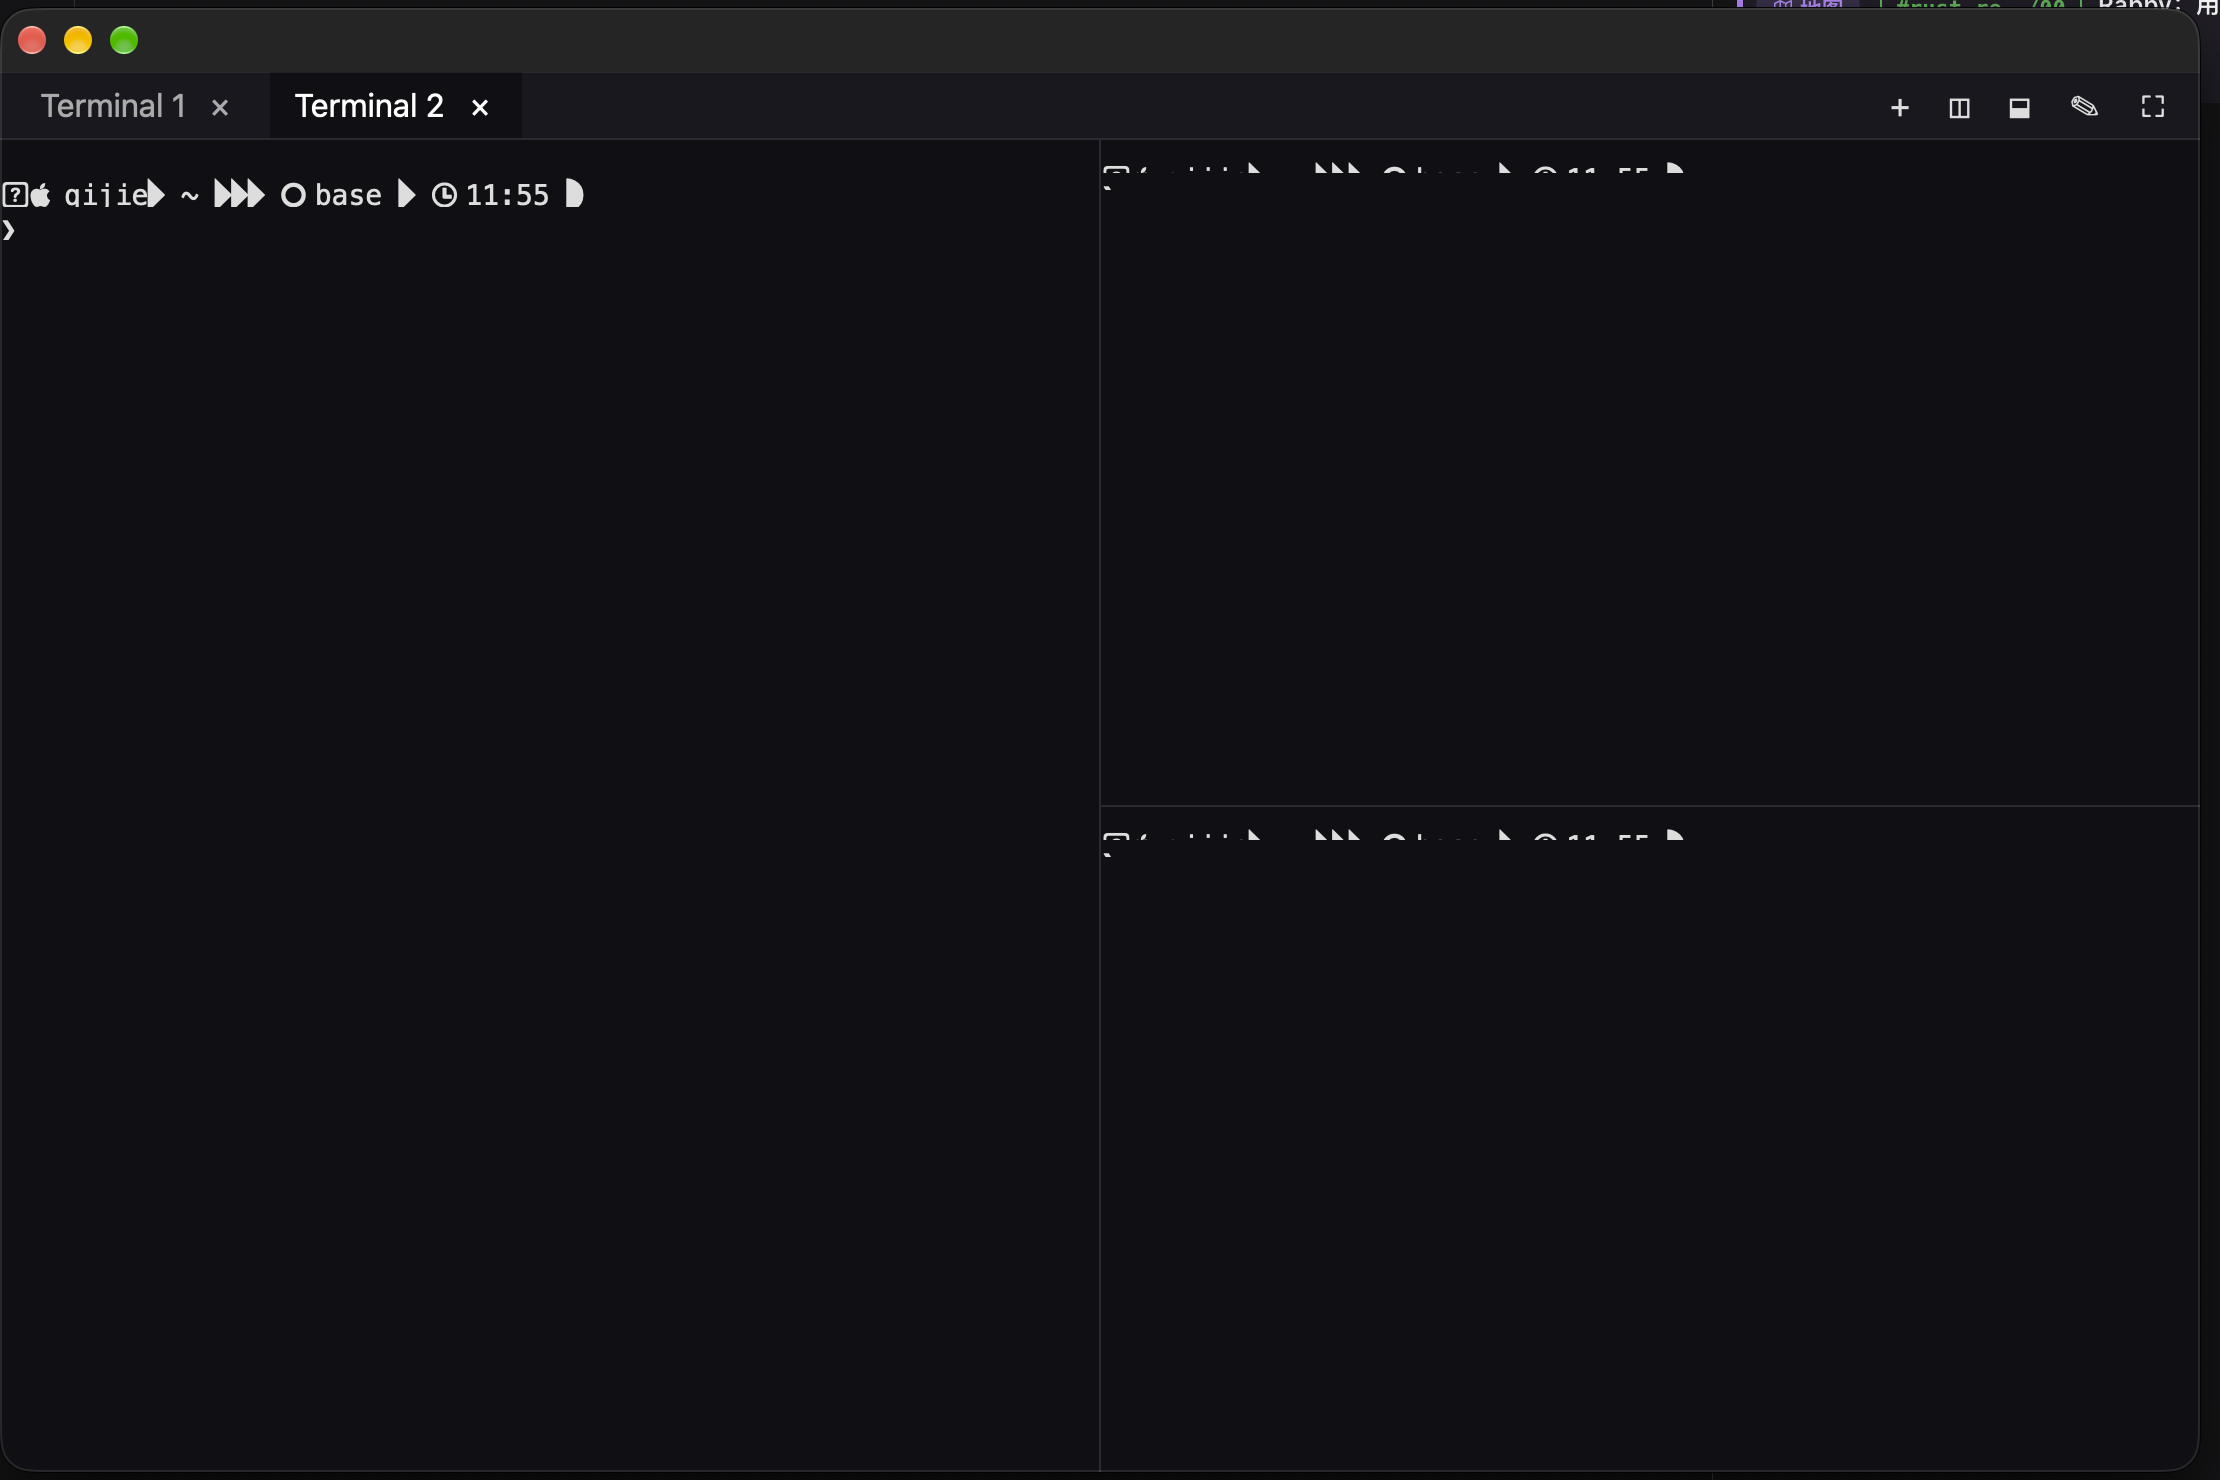
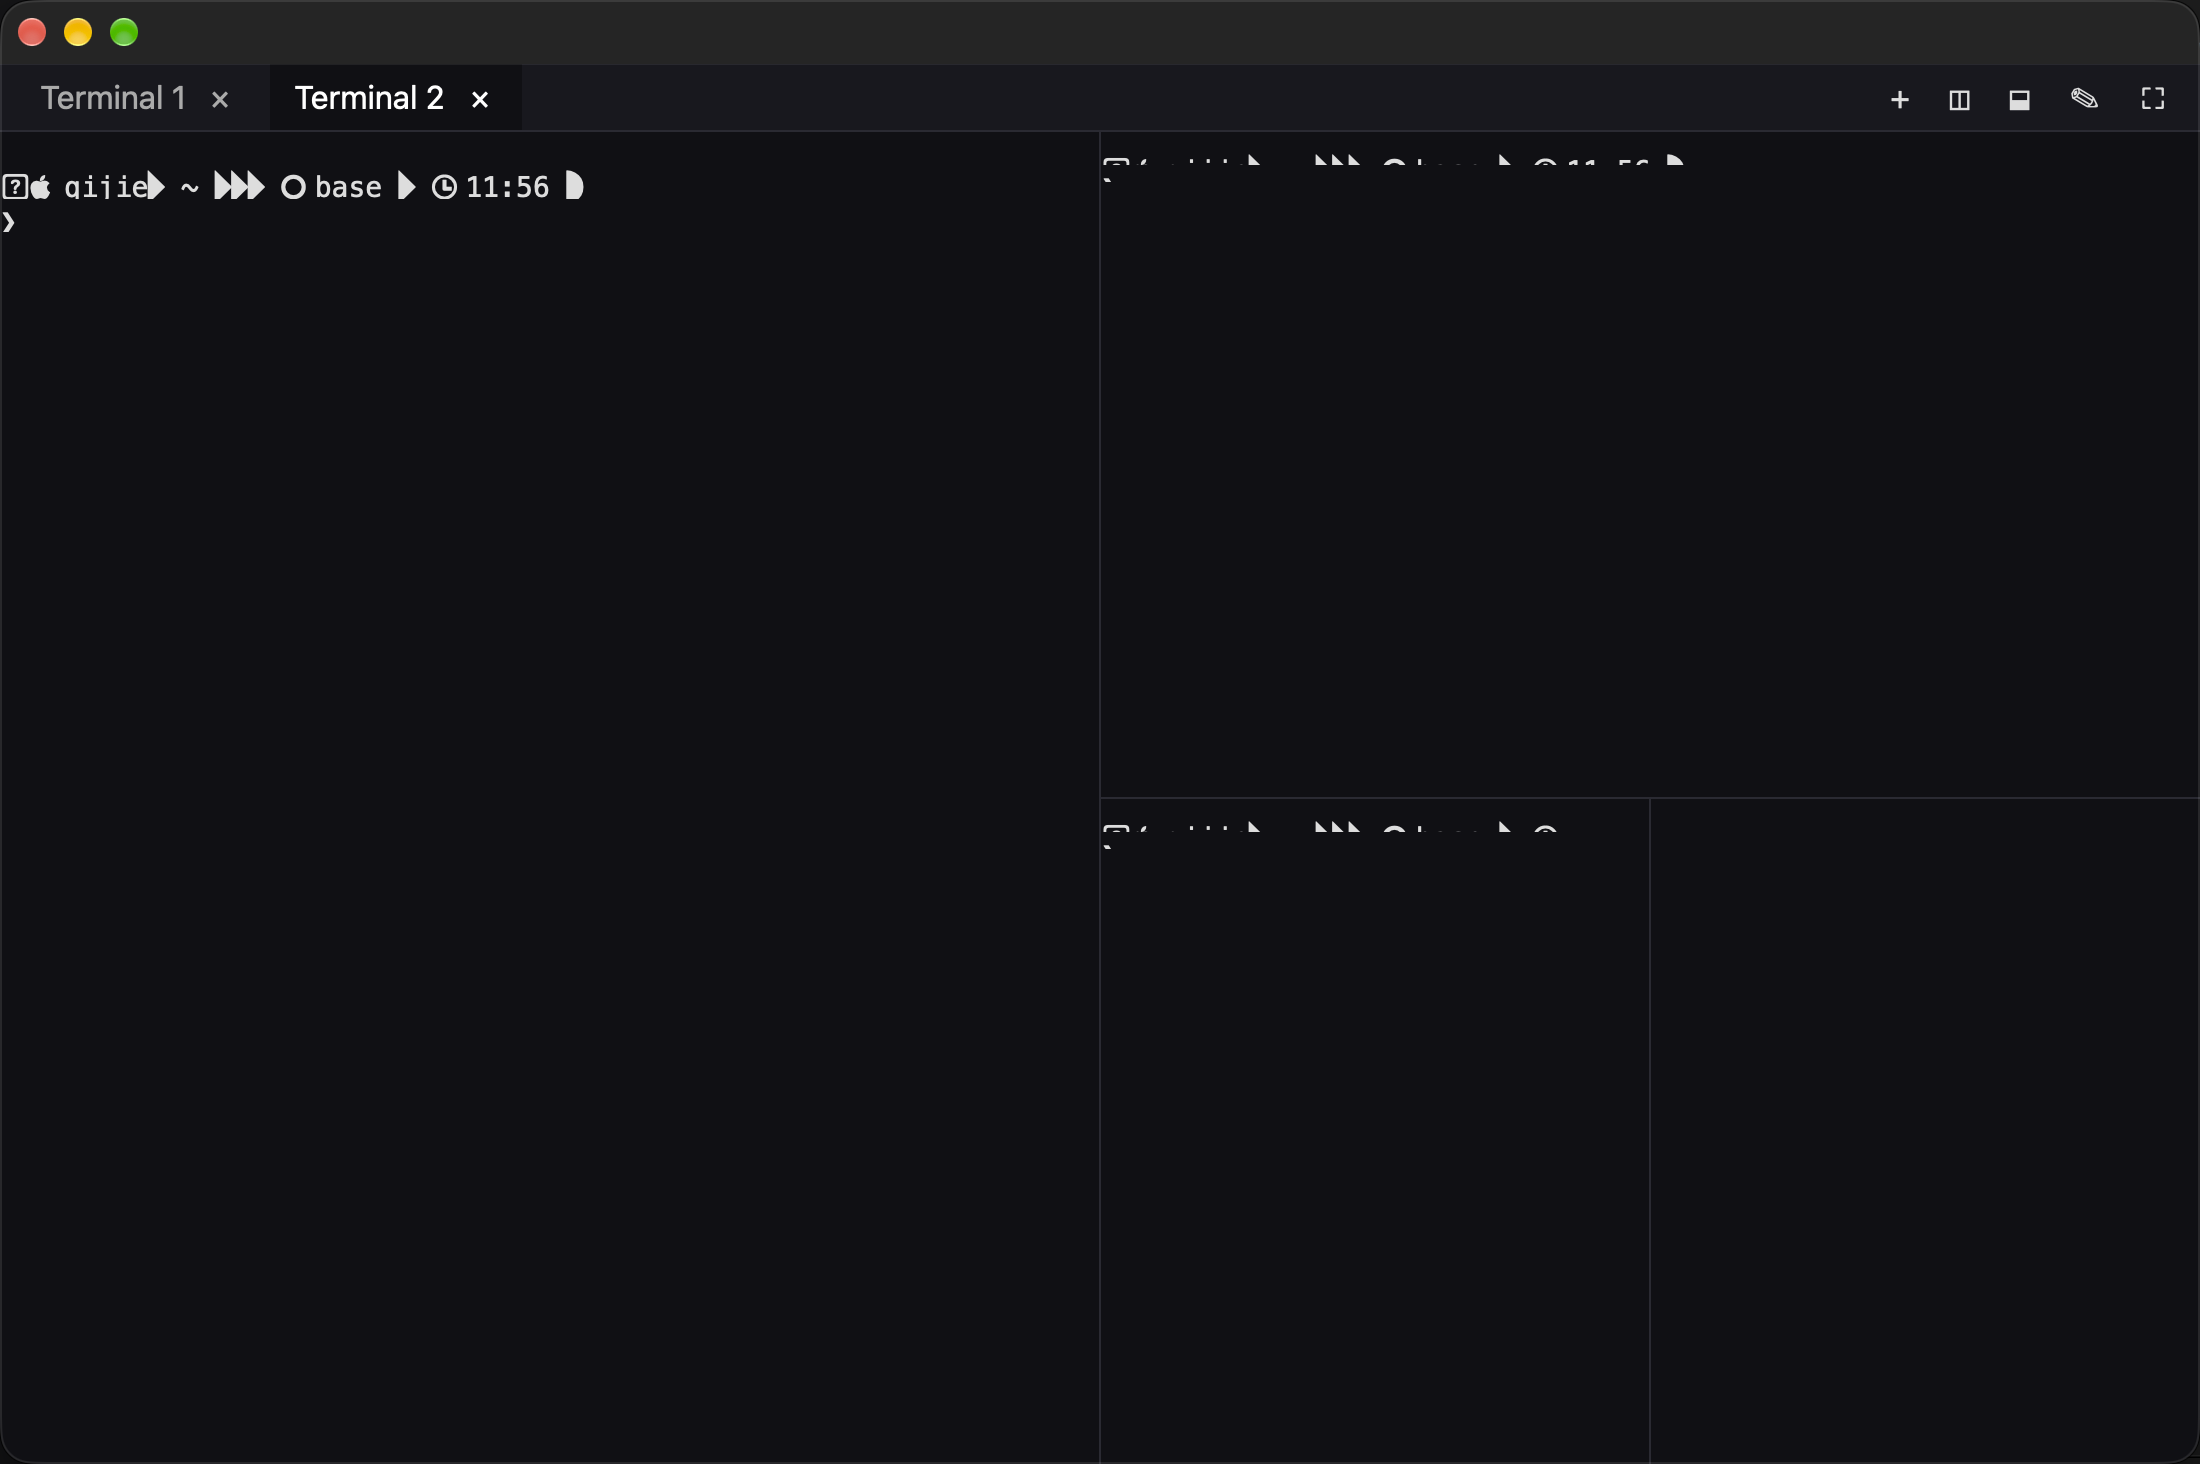
docs(m1): show four-pane nested split

diff --git a/.scratch/implementation/m1.md b/.scratch/implementation/m1.md
@@ -19,7 +19,7 @@
 ## Dogfood 记录
 
 - 启动 rabby-app，Cmd+T 出现第二个标签。
-- 在第二个标签 Cmd+D + Cmd+Shift+D，得到嵌套分屏；截图 m1-tabs-splits.png。
+- 在第二个标签 Cmd+D + Cmd+Shift+D + Cmd+D，得到四 pane 的四向嵌套；截图 m1-tabs-splits.png。
 - Cmd+R 重命名，输入 dogfood，回车提交；截图 m1-rename.png。
 - Cmd+Shift+M 最大化当前 pane；截图 m1-maximize.png。
 - Cmd+Shift+M 还原，Cmd+W 关闭第二个标签；截图 m1-close.png。
